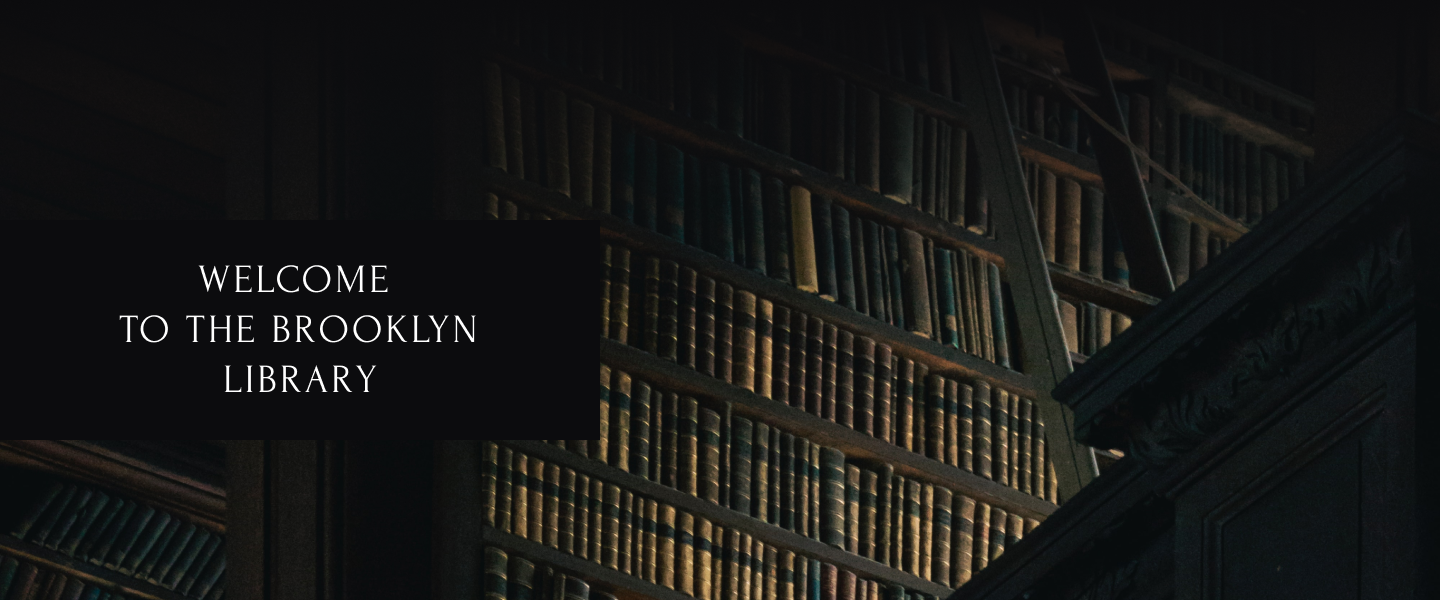
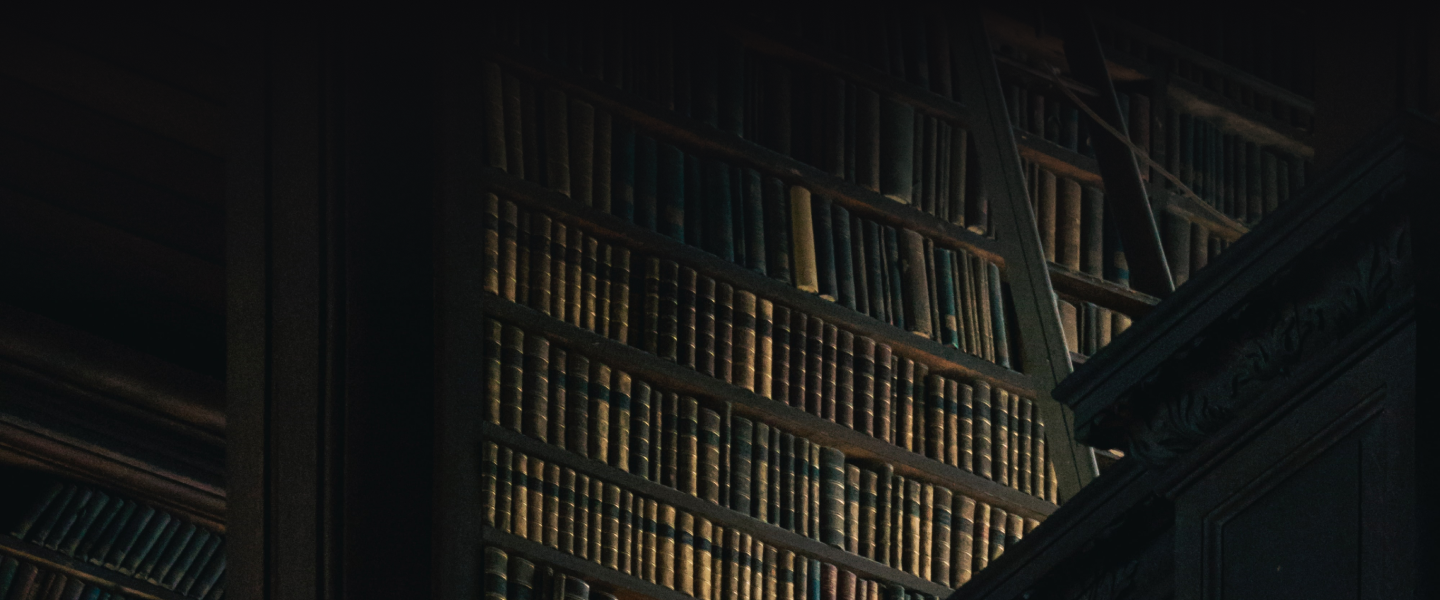
feat:  update

diff --git a/ModulTwo/HomeWork/HW2/style/style.css b/ModulTwo/HomeWork/HW2/style/style.css
@@ -126,13 +126,28 @@ ul {
     gap: 30px 0;
 }
 
-.welcome{
+.welcome{ position: relative;
     background-image: url("../img/Welcome.png");
     background-repeat: no-repeat;
     background-size: cover;
     height: 600px;
 }
 
+
+.welcome__text {
+    position: absolute;
+    padding: 35px 40px;
+    background-color: #0C0C0E;
+    font-size: 40px;
+    line-height: 50px;
+    width: 600px;
+    height: 220px;
+    color: #fff;
+    letter-spacing: 3px;
+    text-align: center;
+    bottom: 168px;
+    left: -44px;
+}
 
 .about {
     padding: 20px 0;
@@ -163,10 +178,11 @@ ul {
     font-size: 20px;
     margin-bottom: 20px;
     font-weight: normal;
+    padding-top: 10px;
 }
 
 .about__slider-inner {
-    padding: 20px 0 40px;
+    padding: 0 0 40px;
 }
 
 .about__slider-box {
@@ -214,7 +230,7 @@ ul {
 .footer__top {
     display: flex;
     justify-content: space-between;
-    padding: 20px 0 30px;
+    padding: 20px 20px 30px;
     border-bottom: 1px solid #fff;
     font-family: "Inter", sans-serif;
     font-size: 15px;
@@ -236,7 +252,7 @@ ul {
     font-family: "Inter", sans-serif;
     display: flex;
     justify-content: space-between;
-    padding: 44px 0;
+    padding: 48px 20px;
     font-size: 22px;
     font-weight: normal;
     line-height: 20px;

diff --git a/ModulTwo/HomeWork/HW2/index.html b/ModulTwo/HomeWork/HW2/index.html
@@ -117,6 +117,11 @@
 </header>
 
 <section class="welcome">
+    <div class="container">
+            <div class="welcome__text">
+                WELCOME <br>TO THE BROOCLYN <br>LIBRARY
+            </div>
+    </div>
 </section>
 
 
